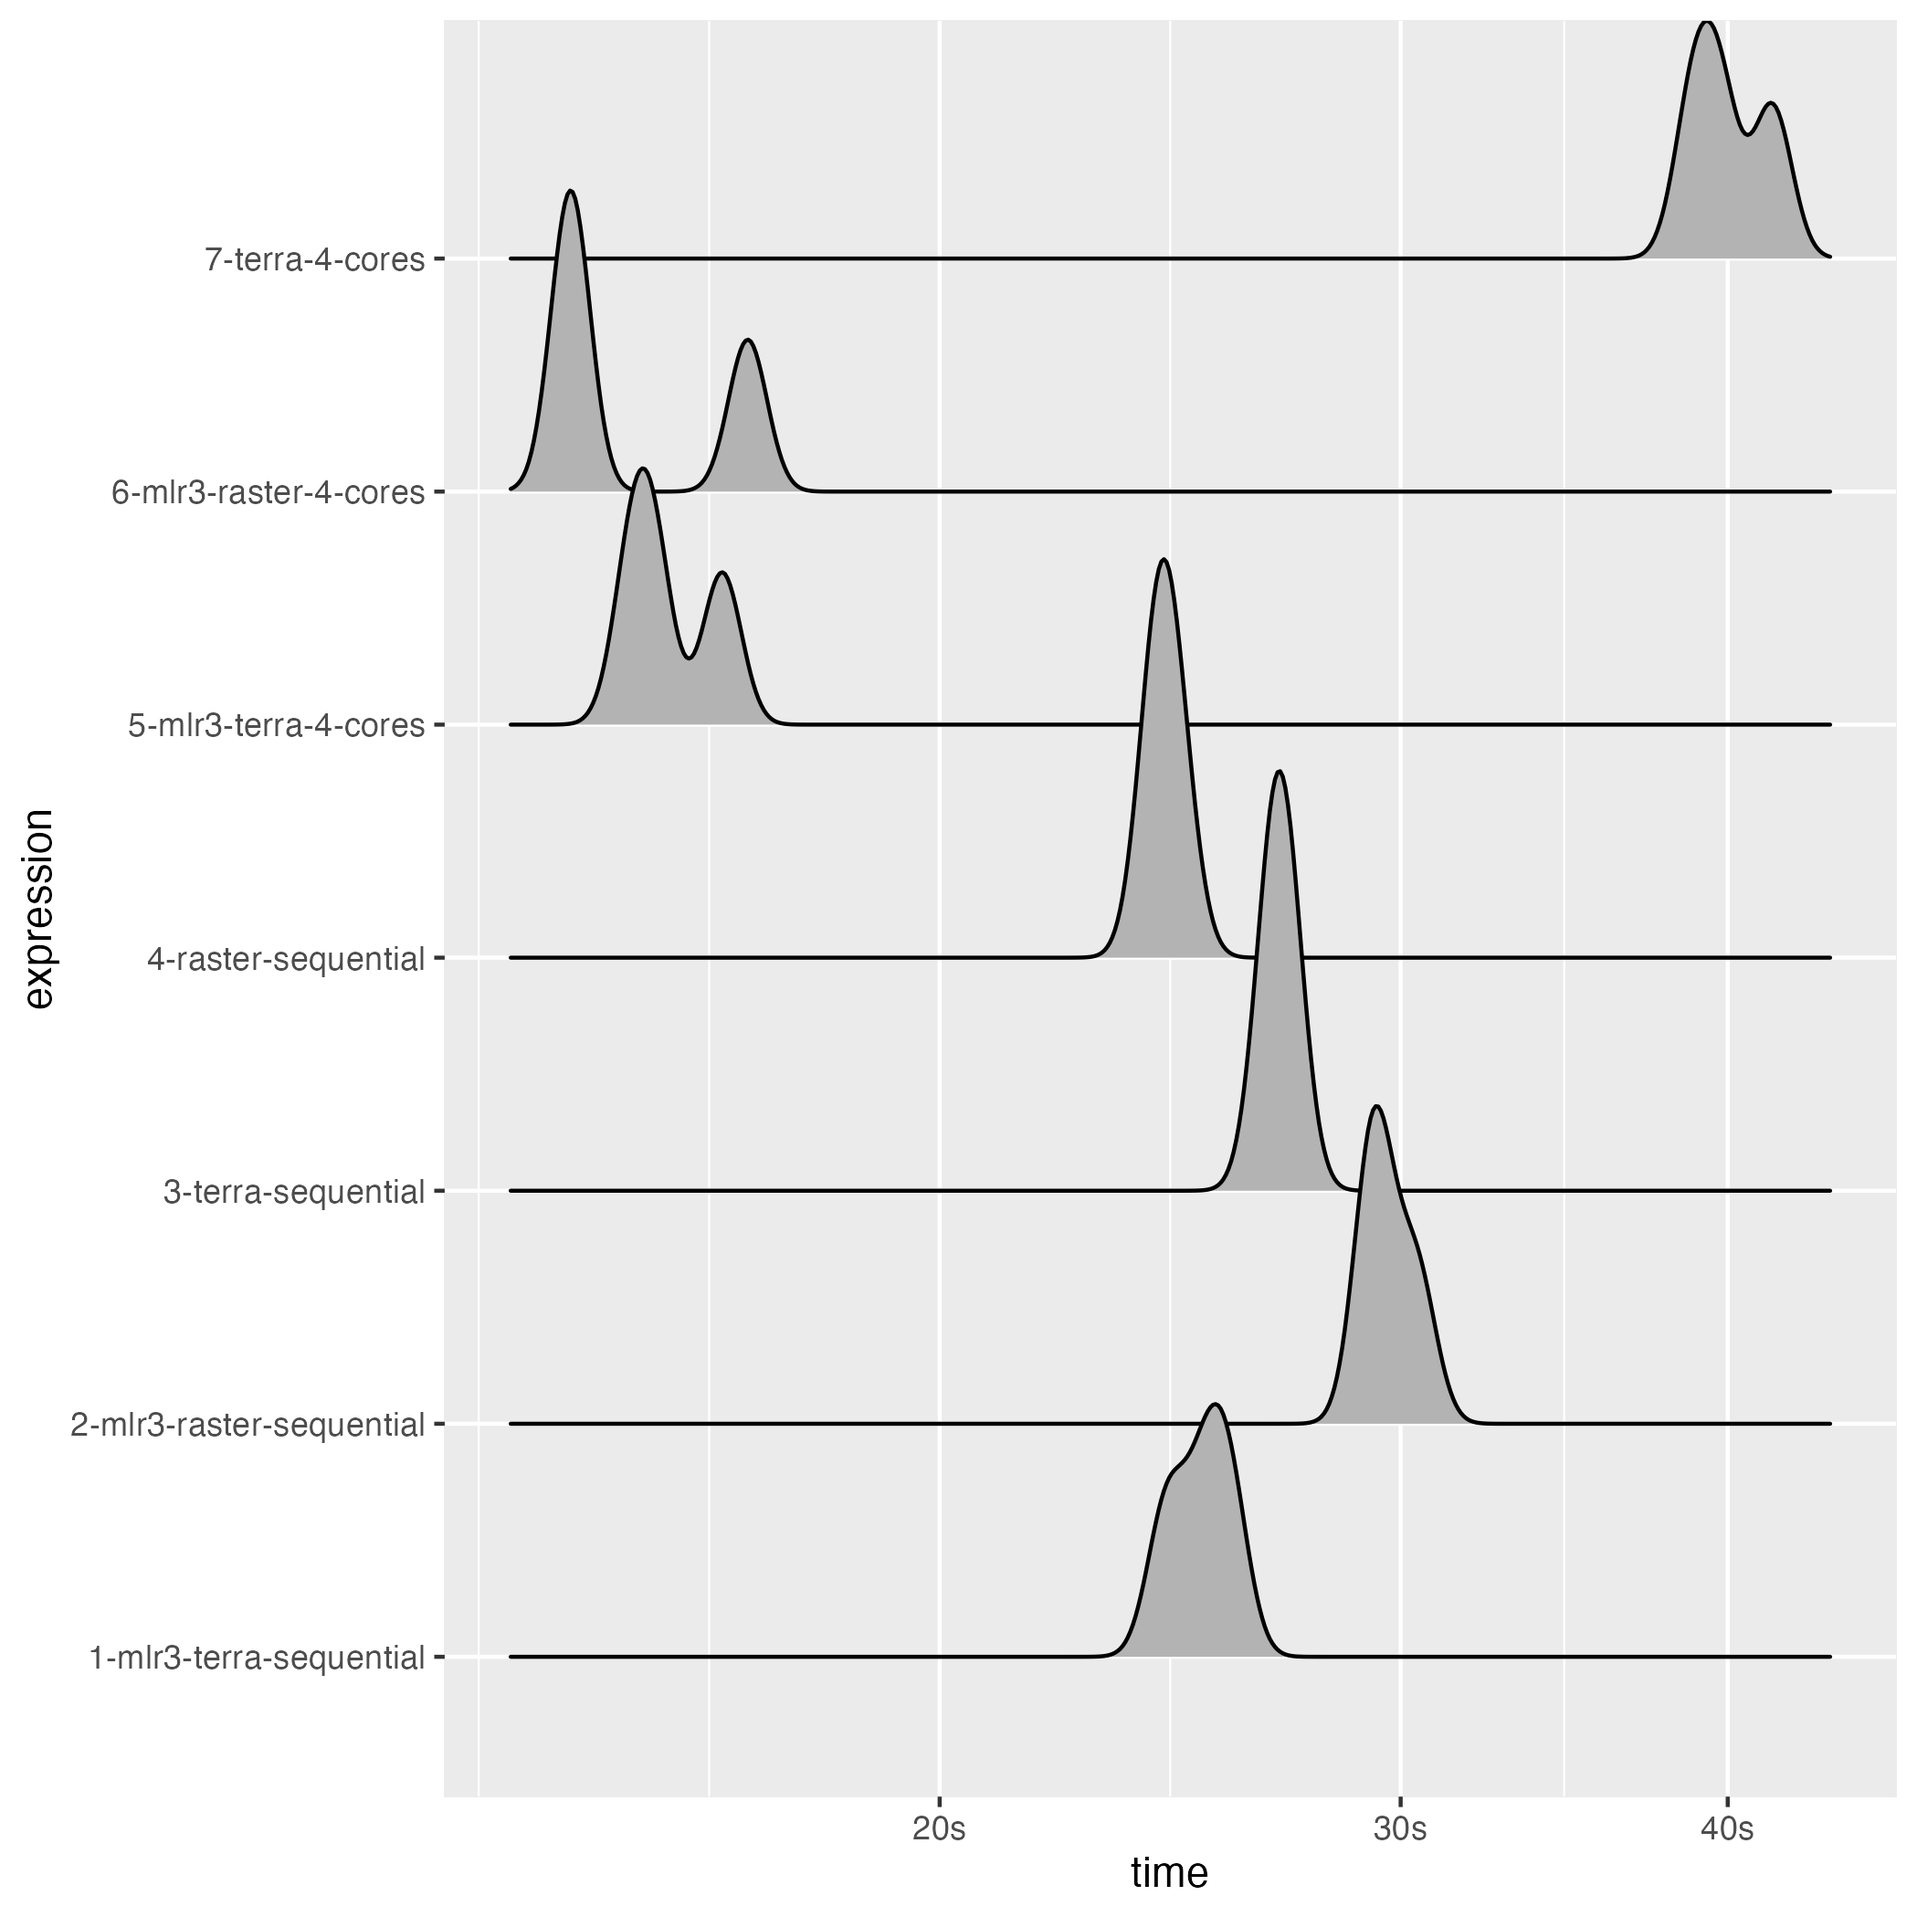
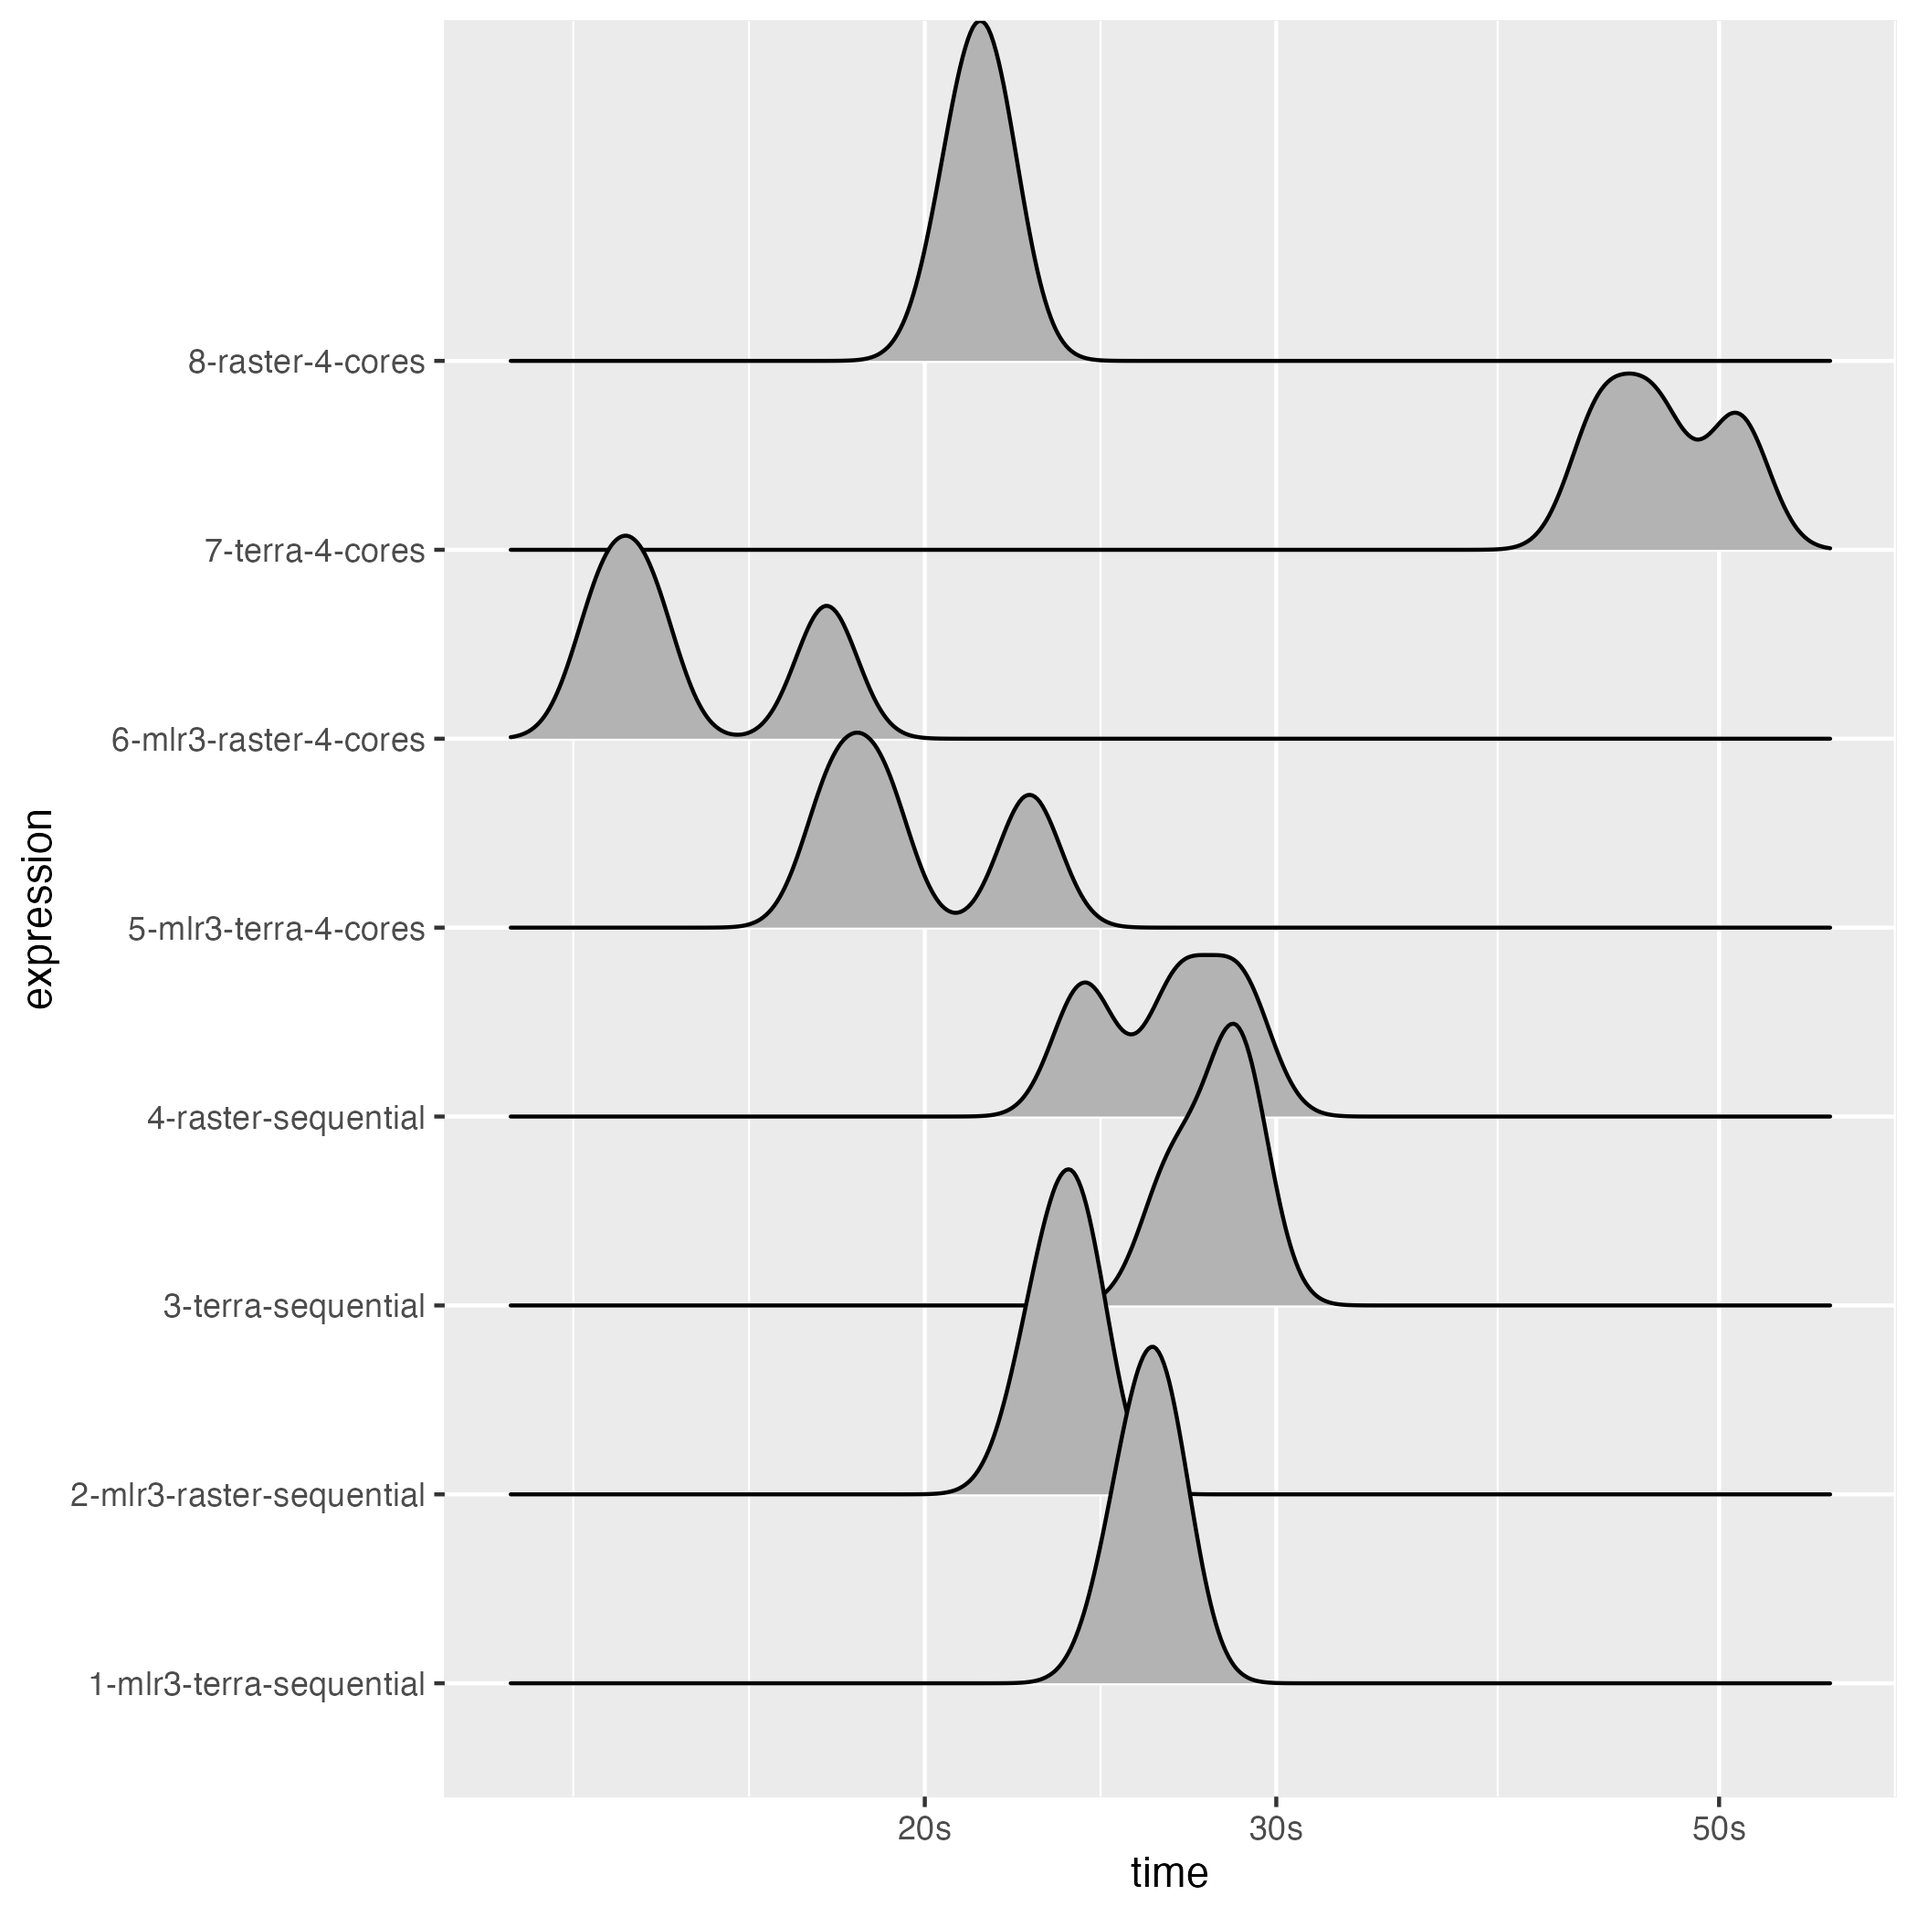
Deploy from Github Actions build 1142331804 [ci skip]
Build URL: https://github.com/mlr-org/mlr3spatial/actions/runs/1142331804
Commit: f47eb2e1e049a94356c10874b68976bba19ee56a

diff --git a/articles/benchmark.html b/articles/benchmark.html
@@ -121,7 +121,13 @@
 
     
     
-<p>For the speed comparison, we are using a somewhat larger <code>SpatRaster</code> object to actually showcase some differences.</p>
+<p>This benchmark was run on a MacBook Pro 2020 with the following specs</p>
+<ul>
+<li>Intel i7-1068NG7 (8) @ 2.30GHz</li>
+<li>32 GB DDR4 RAM</li>
+</ul>
+<p>Note that the differences between the parallel and sequential timings will increase for larger objects as the overhead for starting the parallel workers and collecting the results will decrease.</p>
+<p>It is not fully clear why the parallel approach of the {terra} package is slow than its sequential counterpart but it might relate to the single-core performance of the machine the benchmark was run on in combination with the overhead associated with starting the parallel cluster the way it is done in the {terra} package.</p>
 <div class="sourceCode" id="cb1"><pre class="downlit sourceCode r">
 <code class="sourceCode R"><span class="kw"><a href="https://rdrr.io/r/base/library.html">library</a></span><span class="op">(</span><span class="va"><a href="https://mlr3.mlr-org.com">mlr3</a></span><span class="op">)</span>
 <span class="kw"><a href="https://rdrr.io/r/base/library.html">library</a></span><span class="op">(</span><span class="va"><a href="https://mlr3learners.mlr-org.com">mlr3learners</a></span><span class="op">)</span>
@@ -167,6 +173,7 @@
   <span class="op">}</span>,
 
   <span class="st">"3-terra-sequential"</span> <span class="op">=</span> <span class="fu">terra</span><span class="fu">::</span><span class="fu"><a href="https://rdrr.io/pkg/terra/man/predict.html">predict</a></span><span class="op">(</span><span class="va">stack</span>, <span class="va">e1071svm</span>, cores <span class="op">=</span> <span class="fl">1</span>, cpkgs <span class="op">=</span> <span class="st">"e1071"</span><span class="op">)</span>,
+
   <span class="st">"4-raster-sequential"</span> <span class="op">=</span> <span class="fu">raster</span><span class="fu">::</span><span class="fu"><a href="https://rdrr.io/pkg/raster/man/predict.html">predict</a></span><span class="op">(</span><span class="va">stack_rasterbrick</span>, <span class="va">e1071svm</span><span class="op">)</span>,
 
   <span class="st">"5-mlr3-terra-4-cores"</span> <span class="op">=</span> <span class="op">{</span>
@@ -181,7 +188,28 @@
 
   <span class="st">"7-terra-4-cores"</span> <span class="op">=</span> <span class="fu">terra</span><span class="fu">::</span><span class="fu"><a href="https://rdrr.io/pkg/terra/man/predict.html">predict</a></span><span class="op">(</span><span class="va">stack</span>, <span class="va">e1071svm</span>, cores <span class="op">=</span> <span class="fl">4</span>, cpkgs <span class="op">=</span> <span class="st">"e1071"</span><span class="op">)</span>,
 
+  <span class="st">"8-raster-4-cores"</span> <span class="op">=</span> <span class="op">{</span>
+    <span class="kw"><a href="https://rdrr.io/r/base/library.html">library</a></span><span class="op">(</span><span class="va"><a href="https://rspatial.org/raster">raster</a></span><span class="op">)</span>
+    <span class="kw"><a href="https://rdrr.io/r/base/library.html">library</a></span><span class="op">(</span><span class="va">e1071</span><span class="op">)</span>
+    <span class="fu"><a href="https://rdrr.io/pkg/raster/man/cluster.html">beginCluster</a></span><span class="op">(</span><span class="fl">4</span>, type <span class="op">=</span> <span class="st">"PSOCK"</span><span class="op">)</span>
+    <span class="fu"><a href="https://rdrr.io/pkg/raster/man/cluster.html">clusterR</a></span><span class="op">(</span><span class="va">stack_rasterbrick</span>, <span class="va">predict</span>, args <span class="op">=</span> <span class="fu"><a href="https://rdrr.io/r/base/list.html">list</a></span><span class="op">(</span>model <span class="op">=</span> <span class="va">e1071svm</span><span class="op">)</span><span class="op">)</span>
+  <span class="op">}</span>,
+
   check <span class="op">=</span> <span class="cn">FALSE</span>, filter_gc <span class="op">=</span> <span class="cn">FALSE</span>, min_iterations <span class="op">=</span> <span class="fl">3</span>, memory <span class="op">=</span> <span class="cn">FALSE</span><span class="op">)</span>
+<span class="co">#&gt; Loading required package: sp</span>
+<span class="co">#&gt; </span>
+<span class="co">#&gt; Attaching package: 'raster'</span>
+<span class="co">#&gt; The following object is masked from 'package:future':</span>
+<span class="co">#&gt; </span>
+<span class="co">#&gt;     values</span>
+<span class="co">#&gt; The following object is masked from 'package:mlr3':</span>
+<span class="co">#&gt; </span>
+<span class="co">#&gt;     resample</span>
+<span class="co">#&gt; </span>
+<span class="co">#&gt; Attaching package: 'e1071'</span>
+<span class="co">#&gt; The following object is masked from 'package:raster':</span>
+<span class="co">#&gt; </span>
+<span class="co">#&gt;     interpolate</span>
 
 <span class="va">bm</span><span class="op">$</span><span class="va">mem_alloc</span> <span class="op">=</span> <span class="cn">NULL</span>
 <span class="va">bm</span><span class="op">$</span><span class="va">`itr/sec`</span> <span class="op">=</span> <span class="cn">NULL</span>
@@ -190,21 +218,22 @@
 <span class="va">bm</span><span class="op">$</span><span class="va">memory</span> <span class="op">=</span> <span class="cn">NULL</span>
 
 <span class="fu"><a href="https://rdrr.io/r/base/print.html">print</a></span><span class="op">(</span><span class="va">bm</span><span class="op">)</span>
-<span class="co">#&gt; # A tibble: 7 × 8</span>
+<span class="co">#&gt; # A tibble: 8 × 8</span>
 <span class="co">#&gt;   expression                    min   median n_itr  n_gc total_time time           gc              </span>
 <span class="co">#&gt;   &lt;bch:expr&gt;               &lt;bch:tm&gt; &lt;bch:tm&gt; &lt;int&gt; &lt;dbl&gt;   &lt;bch:tm&gt; &lt;list&gt;         &lt;list&gt;          </span>
-<span class="co">#&gt; 1 1-mlr3-terra-sequential     24.4s    25.3s     3    21      1.26m &lt;bench_tm [3]&gt; &lt;tibble [3 × 3]&gt;</span>
-<span class="co">#&gt; 2 2-mlr3-raster-sequential    29.3s    29.4s     3    13      1.48m &lt;bench_tm [3]&gt; &lt;tibble [3 × 3]&gt;</span>
-<span class="co">#&gt; 3 3-terra-sequential          26.7s      27s     3    13      1.35m &lt;bench_tm [3]&gt; &lt;tibble [3 × 3]&gt;</span>
-<span class="co">#&gt; 4 4-raster-sequential         24.2s    24.3s     3     9      1.22m &lt;bench_tm [3]&gt; &lt;tibble [3 × 3]&gt;</span>
-<span class="co">#&gt; 5 5-mlr3-terra-4-cores        15.3s    15.6s     3     5     47.33s &lt;bench_tm [3]&gt; &lt;tibble [3 × 3]&gt;</span>
-<span class="co">#&gt; 6 6-mlr3-raster-4-cores       14.4s    14.5s     3     4      45.8s &lt;bench_tm [3]&gt; &lt;tibble [3 × 3]&gt;</span>
-<span class="co">#&gt; 7 7-terra-4-cores             38.8s    39.7s     3     5         2m &lt;bench_tm [3]&gt; &lt;tibble [3 × 3]&gt;</span></code></pre></div>
+<span class="co">#&gt; 1 1-mlr3-terra-sequential     25.1s    26.3s     3    21       1.3m &lt;bench_tm [3]&gt; &lt;tibble [3 × 3]&gt;</span>
+<span class="co">#&gt; 2 2-mlr3-raster-sequential    22.7s    23.7s     3    11      1.18m &lt;bench_tm [3]&gt; &lt;tibble [3 × 3]&gt;</span>
+<span class="co">#&gt; 3 3-terra-sequential          26.6s    28.7s     3    17       1.4m &lt;bench_tm [3]&gt; &lt;tibble [3 × 3]&gt;</span>
+<span class="co">#&gt; 4 4-raster-sequential           24s    26.8s     3    12      1.33m &lt;bench_tm [3]&gt; &lt;tibble [3 × 3]&gt;</span>
+<span class="co">#&gt; 5 5-mlr3-terra-4-cores          18s      19s     3     7     59.58s &lt;bench_tm [3]&gt; &lt;tibble [3 × 3]&gt;</span>
+<span class="co">#&gt; 6 6-mlr3-raster-4-cores       13.8s    14.5s     3     8     46.19s &lt;bench_tm [3]&gt; &lt;tibble [3 × 3]&gt;</span>
+<span class="co">#&gt; 7 7-terra-4-cores             43.6s    46.5s     3    11      2.35m &lt;bench_tm [3]&gt; &lt;tibble [3 × 3]&gt;</span>
+<span class="co">#&gt; 8 8-raster-4-cores            20.7s    21.4s     3     1      1.06m &lt;bench_tm [3]&gt; &lt;tibble [3 × 3]&gt;</span></code></pre></div>
 <div class="sourceCode" id="cb3"><pre class="downlit sourceCode r">
 <code class="sourceCode R"><span class="kw"><a href="https://rdrr.io/r/base/library.html">library</a></span><span class="op">(</span><span class="va">ggplot2</span><span class="op">)</span>
 <span class="fu">autoplot</span><span class="op">(</span><span class="va">bm</span>, <span class="st">"ridge"</span><span class="op">)</span>
 <span class="co">#&gt; Loading required namespace: tidyr</span>
-<span class="co">#&gt; Picking joint bandwidth of 0.00734</span></code></pre></div>
+<span class="co">#&gt; Picking joint bandwidth of 0.0154</span></code></pre></div>
 <div class="figure">
 <img src="plot-benchmark-1.png" alt=""><p class="caption">Benchmark plot</p>
 </div>

diff --git a/articles/mlr3spatial.html b/articles/mlr3spatial.html
@@ -215,7 +215,7 @@
 <span class="co">#&gt; ---                       </span>
 <span class="co">#&gt;      249998  TRUE     TRUE</span>
 <span class="co">#&gt;      249999  TRUE     TRUE</span>
-<span class="co">#&gt;      250000  TRUE    FALSE</span></code></pre></div>
+<span class="co">#&gt;      250000  TRUE     TRUE</span></code></pre></div>
 </div>
 <div id="terra" class="section level4">
 <h4 class="hasAnchor">
